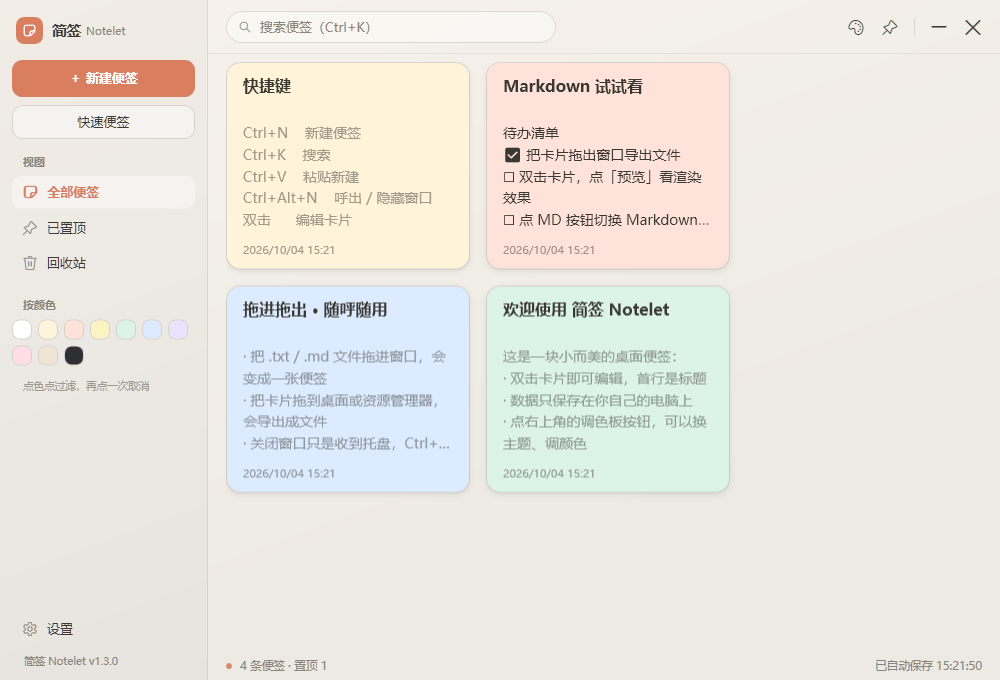
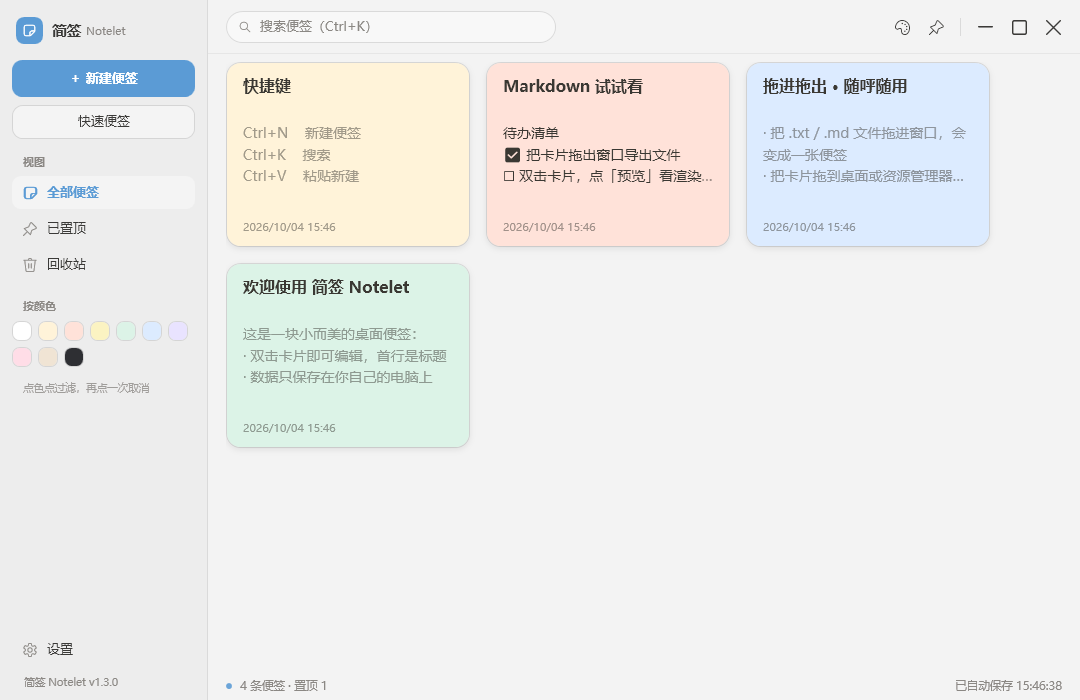
修复：云母/亚克力主题下顶栏出现重复按钮
根因：启用 DWM 系统材质后，Win11 会额外绘制一套原生标题栏按钮，
与自绘按钮叠成重影（仅云母/亚克力主题出现）。
修复：窗口样式移除 WS_SYSMENU，原生按钮不再绘制，自绘按钮为唯一一套。
已用云母主题实测截图验证：顶栏无重影。

diff --git a/src/Notelet/MainWindow.xaml.cs b/src/Notelet/MainWindow.xaml.cs
@@ -62,6 +62,7 @@ public partial class MainWindow : Window
 
     const int GWL_STYLE = -16;
     const int WS_MAXIMIZEBOX = 0x00010000;
+    const int WS_SYSMENU = 0x00080000;
 
     public ListCollectionView View { get; }
     public static readonly DependencyProperty TrashModeProperty = DependencyProperty.Register(
@@ -106,9 +107,10 @@ public partial class MainWindow : Window
             RegisterHotKey(hwnd, HotKeyQuickId, MOD_CONTROL | MOD_ALT, 0x51);
             HwndSource.FromHwnd(hwnd)?.AddHook(WndProc);
 
-            // 关闭系统最大化贴靠：拖到屏幕顶部不再弹贴靠预览（便签窗口用不上）
+            // 关闭系统最大化贴靠；并去掉原生标题栏按钮——
+            // 云母/亚克力材质下 Win11 会额外绘制一套原生按钮，与自绘按钮叠成重影
             int style = GetWindowLong(hwnd, GWL_STYLE);
-            SetWindowLong(hwnd, GWL_STYLE, style & ~WS_MAXIMIZEBOX);
+            SetWindowLong(hwnd, GWL_STYLE, style & ~(WS_MAXIMIZEBOX | WS_SYSMENU));
         };
 
         _settingsSaveTimer = new DispatcherTimer { Interval = TimeSpan.FromMilliseconds(600) };
